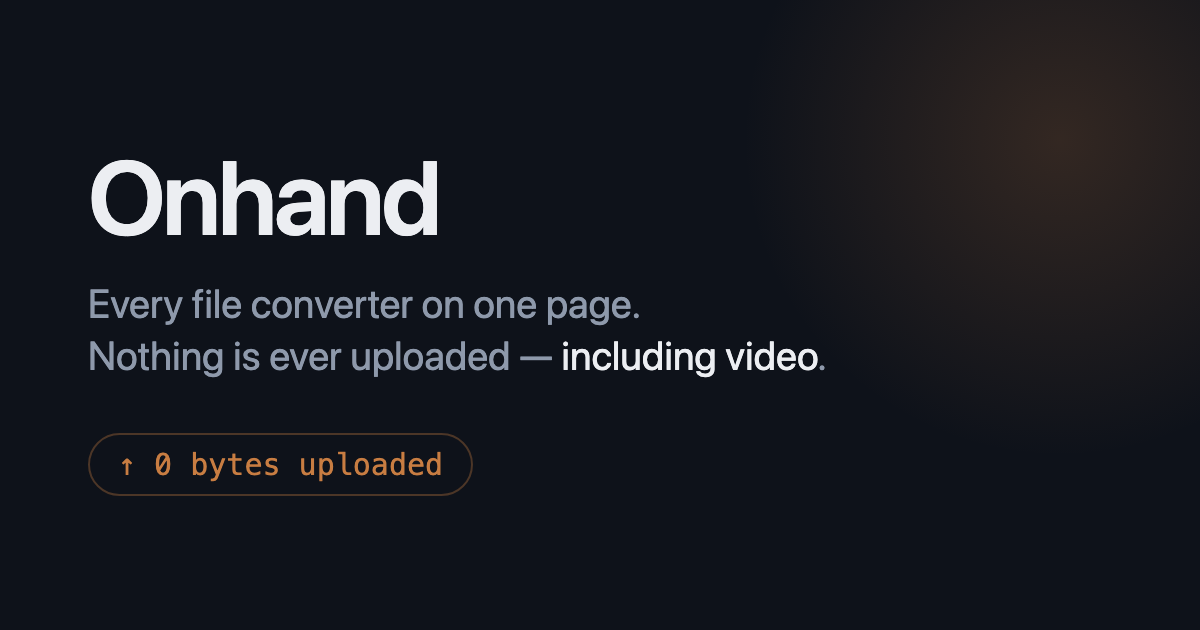
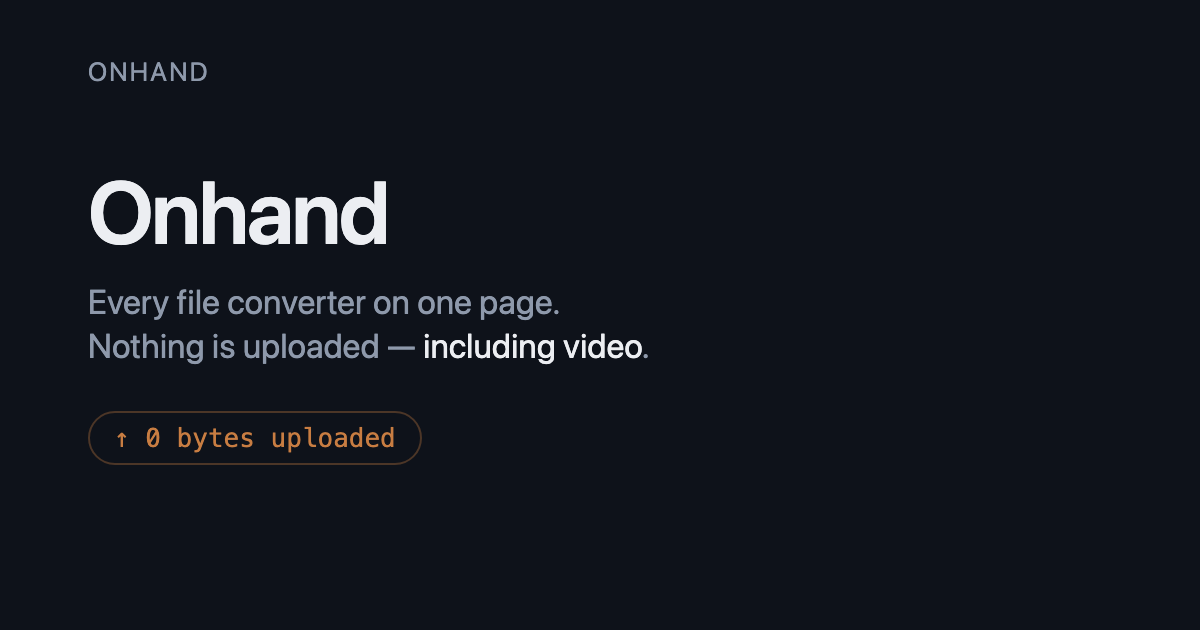
A social card per conversion pair
44 cards, one per pair page, generated by `pnpm og` and committed. Not part of
the build: rasterising needs a browser and Cloudflare's build image has no
Playwright, so wiring it in would work locally and fail on deploy — which this
project has already paid for twice.

The script reads the built pages to learn what each card should say, so a card
cannot disagree with its page. The cost is two builds when regenerating, which
is documented where someone will hit it.

Flat backgrounds, deliberately: the first version's radial gradient cost 112 KB
per image against 36 KB flat, which across 44 cards is 5 MB versus 1.6 MB of
committed binaries for identical information.

CI fails if a pair page has no card. Adding a pair without regenerating leaves
it pointing at a 404, and a missing card looks like nothing at all until someone
shares the link.

Also corrects the pair count in BATTLEPLAN from 45 to the actual 44.

diff --git a/BATTLEPLAN.md b/BATTLEPLAN.md
@@ -483,15 +483,15 @@ instead, which is a stronger test than the audit was.)
 
 ## P5 — Pages and SEO (in progress) 2026-08-01
 
-**45 pair pages, /formats, /why, sitemap, robots.** Staying on
+**44 pair pages, /formats, /why, sitemap, robots.** Staying on
 `onhand.pages.dev` — no domain bought, so no SEO work is stranded by a later
 move.
 
 - **Pair pages are not a template with the nouns swapped.** Each carries its own
   `reason` sentence, and the "what changes" facts are derived from the format
   table — lossy versus lossless, whether the source is read-only, whether the
-  pair needs the 9.7 MB engine. Measured: **45 distinct lead paragraphs across
-  45 pages**, 46 distinct `<title>`s.
+  pair needs the 9.7 MB engine. Measured: **44 distinct lead paragraphs across the
+  44 pair pages**, and every `<title>` on the site distinct.
 - **`pairs.ts` is validated against the engine at build time.** A page cannot
   exist for a pair the broker would refuse — which is the exact failure this
   project criticises competitors for.
@@ -527,3 +527,28 @@ user still gets their file. Tested directly rather than by waiting.
 - Removed the last `eslint-disable`: the offline effect closed over `jobs`
   without declaring it. Reading the pairs back out of the key means the key is
   the only dependency, which it always was.
+
+### P5 — social cards
+
+One card per pair, generated by `pnpm og` and committed. **Not** part of the
+build: it needs a browser to rasterise and Cloudflare's build image has no
+Playwright, so wiring it in would work locally and fail on deploy — the failure
+this project has already paid for twice.
+
+The script reads the BUILT pages to learn what each card should say, so a card
+can never disagree with its page. That does mean two builds when regenerating
+(`pnpm build && pnpm og && pnpm build`), which is documented at the top of the
+script.
+
+Backgrounds are flat deliberately. The first version had a radial gradient and
+weighed **112 KB per image**; flat is **36 KB**, which across 44 cards is the
+difference between 5 MB and 1.6 MB of committed binaries for identical
+information.
+
+CI now fails if a pair page has no card. Adding a pair without regenerating
+leaves that page pointing at a 404, and a missing social card looks like nothing
+at all until someone shares the link.
+
+**Deployed output: 153 files, 30 MB** — against Cloudflare's limits of 20,000
+files and 25 MiB per file, with the largest single file being the 9.7 MiB
+gzipped ffmpeg core.
